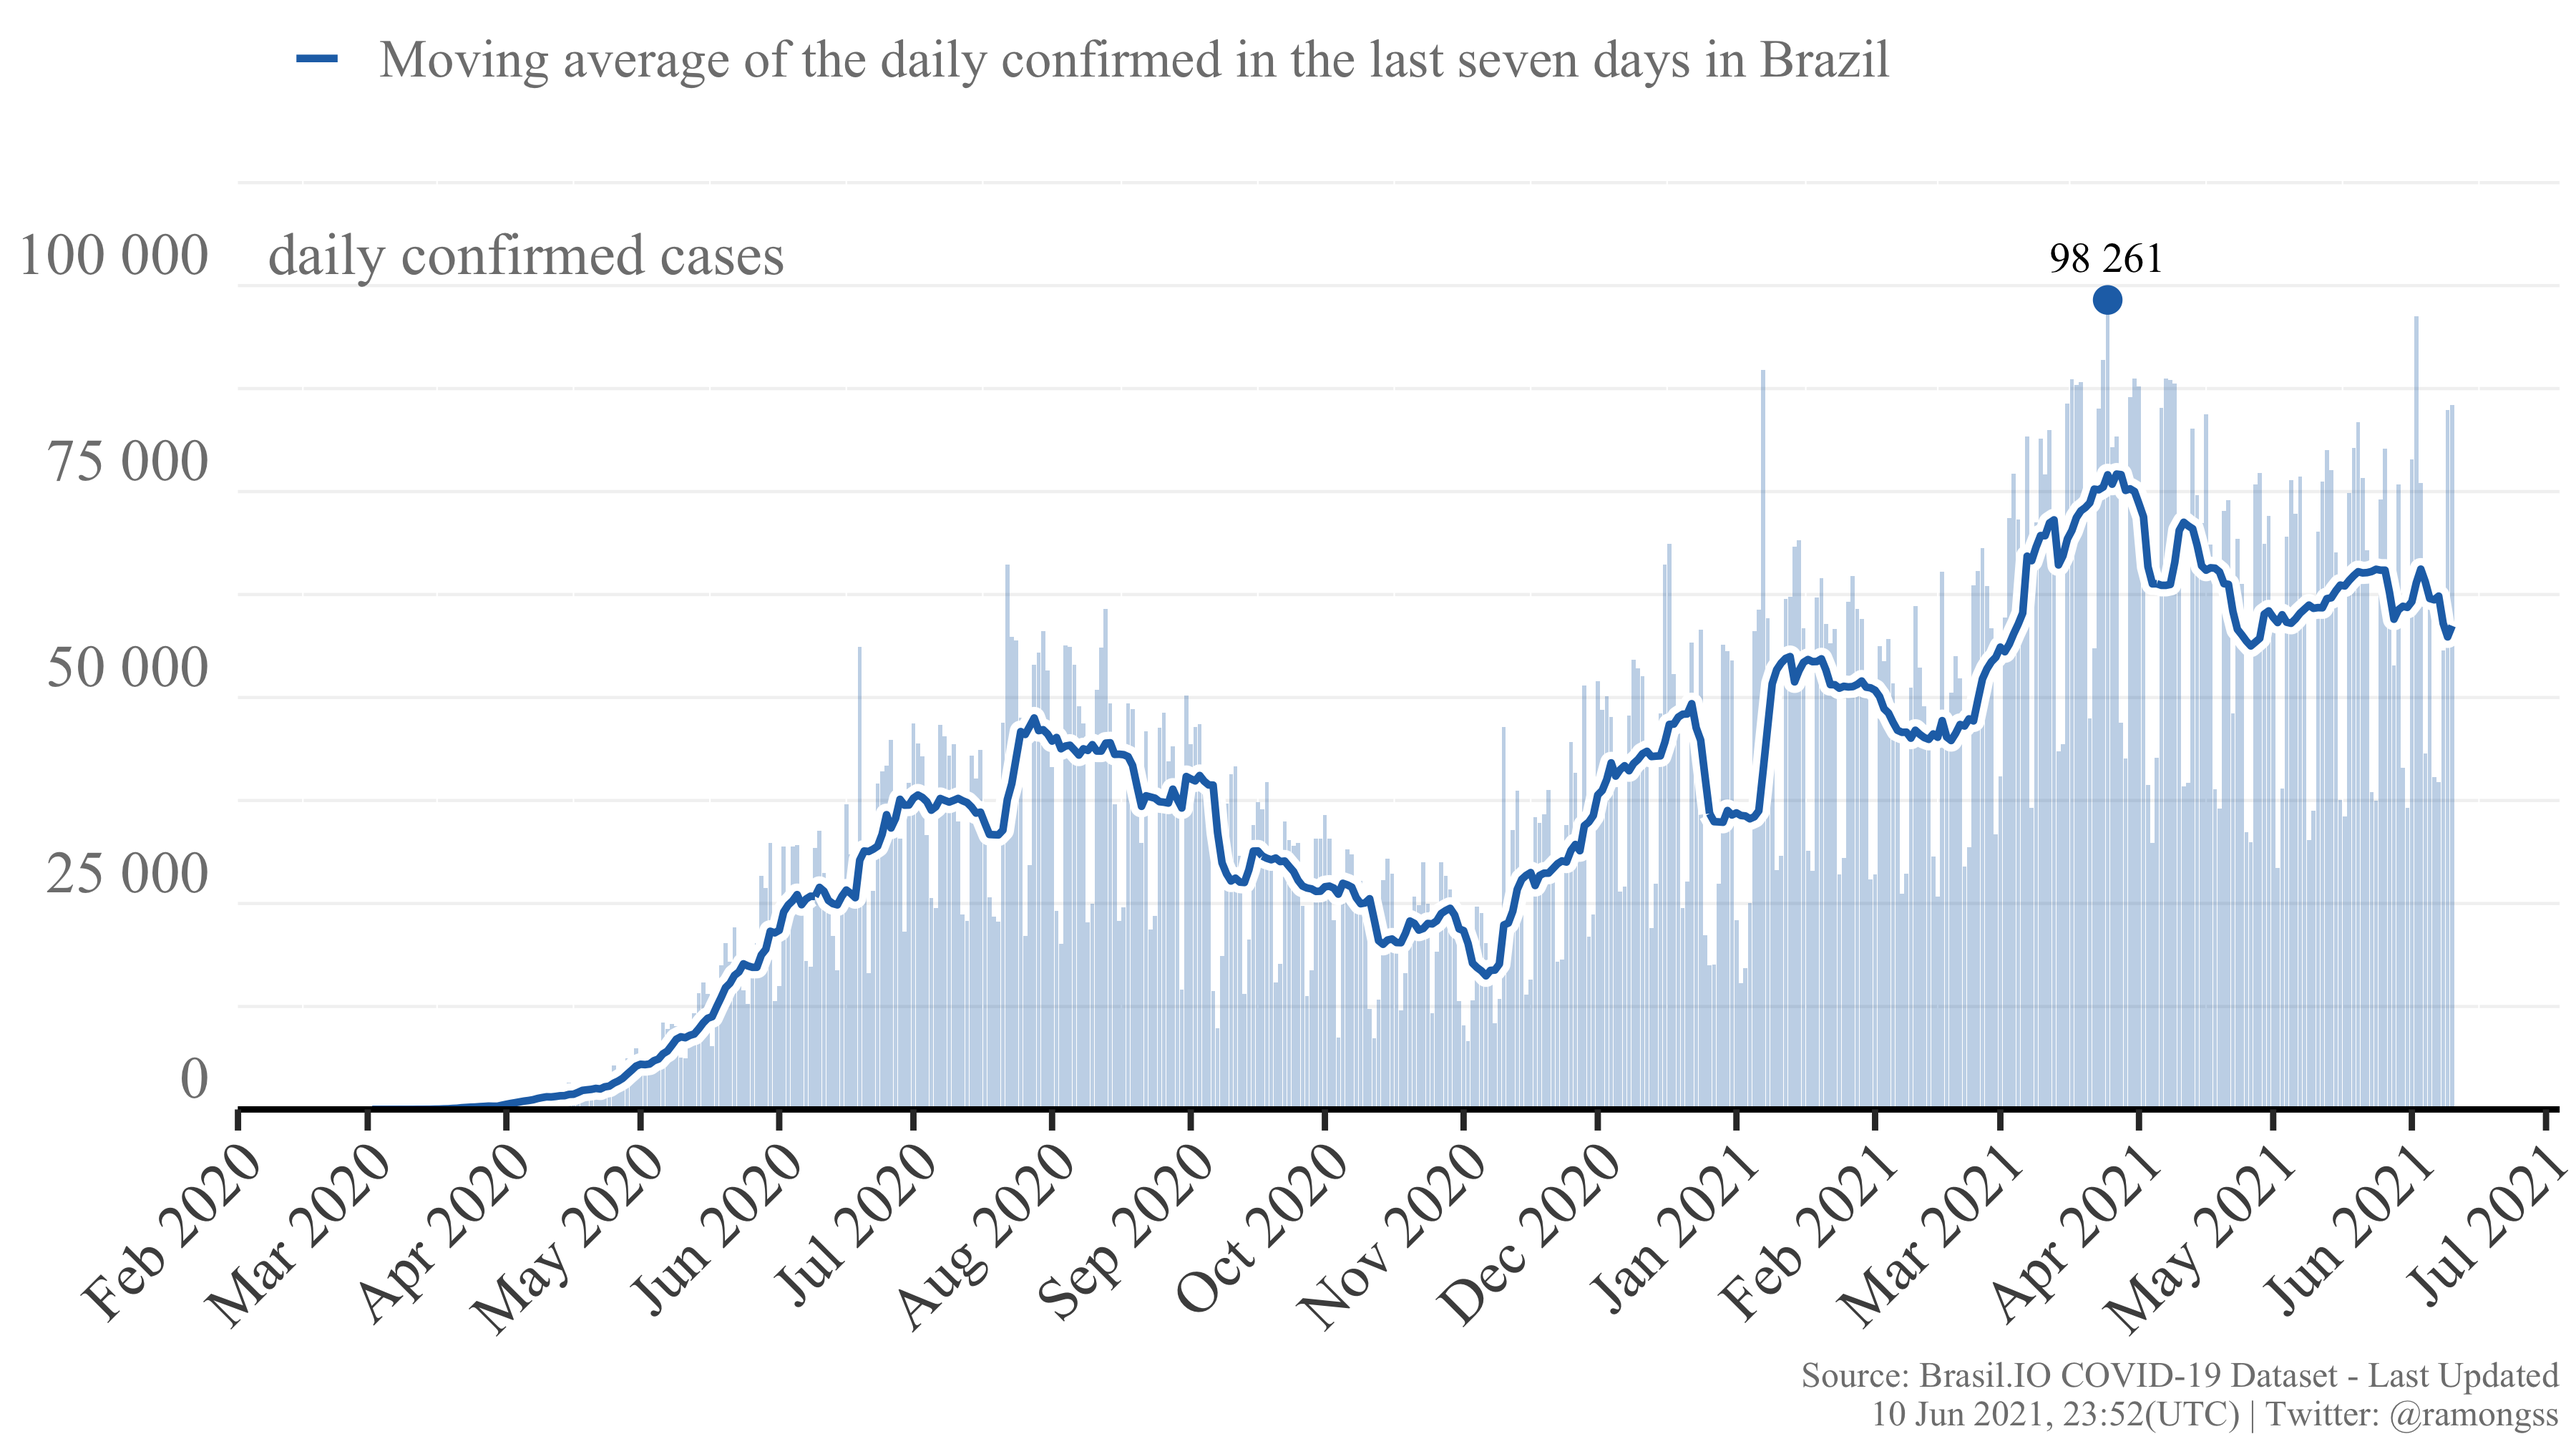
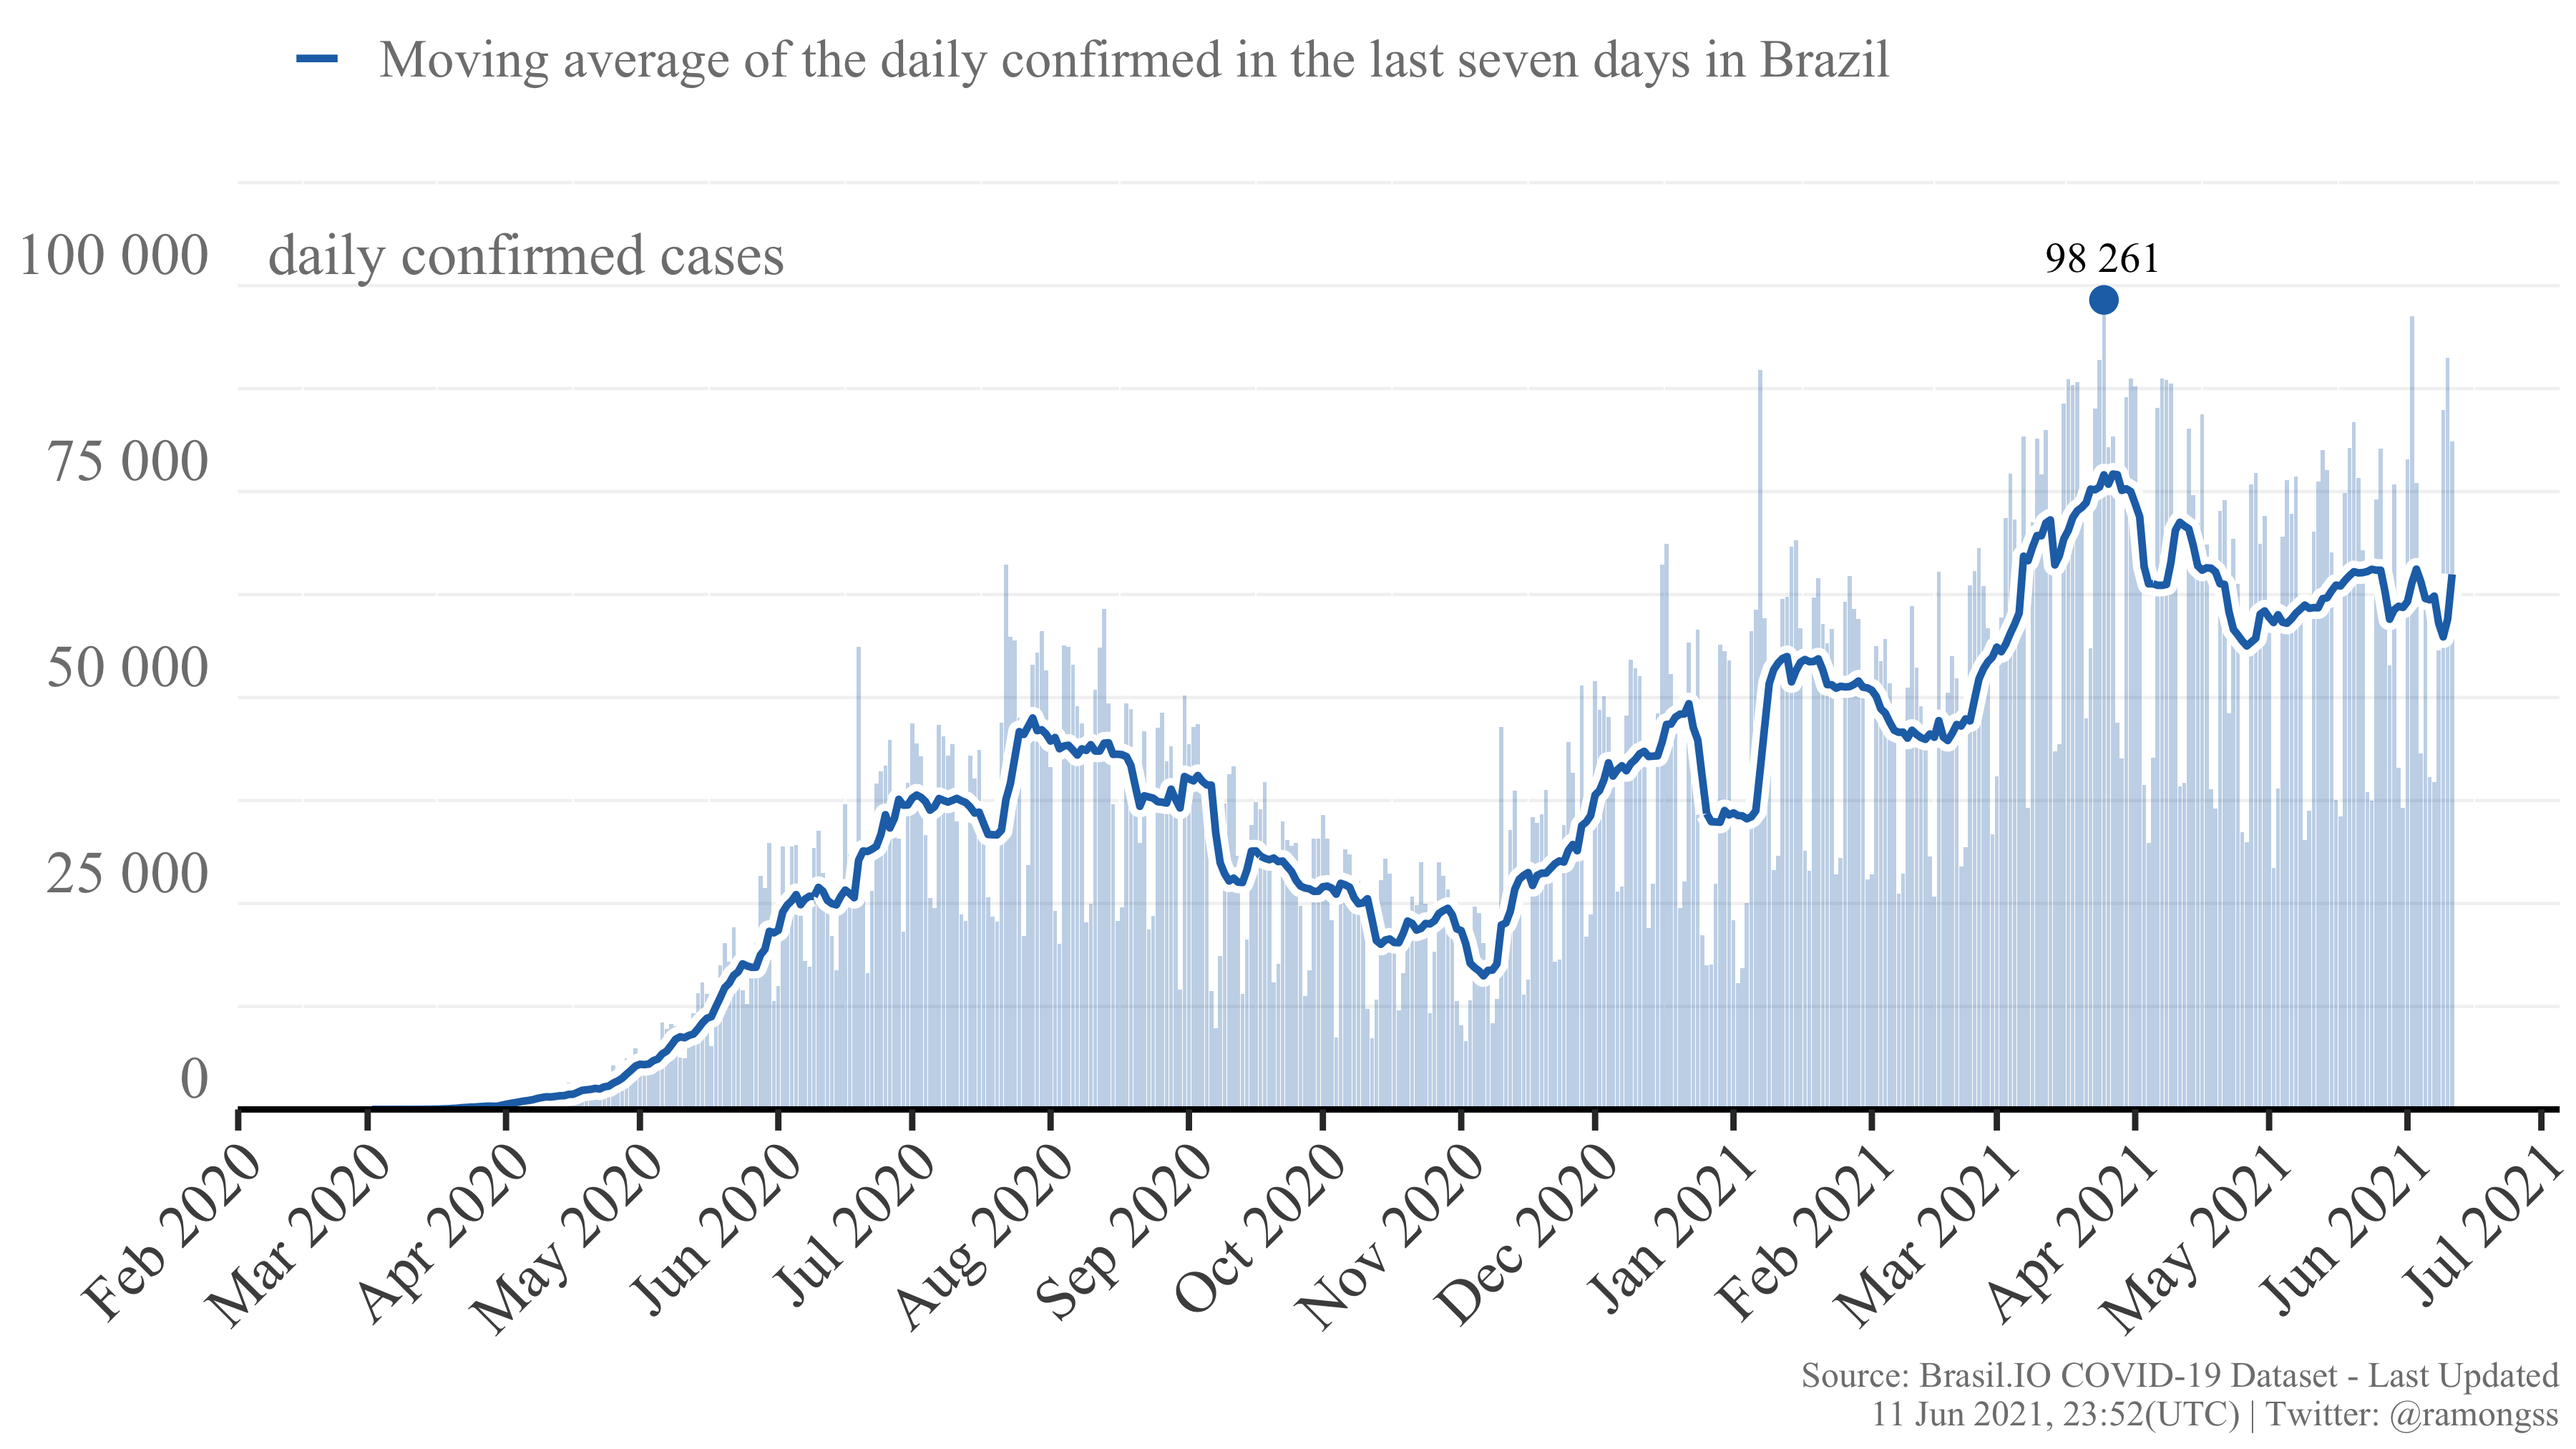
Re-build README.Rmd

diff --git a/README.md b/README.md
@@ -27,8 +27,8 @@ download_brasilio_table <- function(dataset = "covid19", table_name){
 
 ## COVID-19 Confirmed cases
 
-Currently, Brazil has a total of **17,220,092** confirmed cases at **10
-Jun, 2021**, with **85,469** new confirmed cases. The daily maximum
+Currently, Brazil has a total of **17,306,950** confirmed cases at **11
+Jun, 2021**, with **81,083** new confirmed cases. The daily maximum
 incidence was **98,261** confirmed cases at **25 Mar, 2021**. Here
 follows the Figure showing the confirmed case incidence as the bars, and
 the line as the moving average of the last 7 days.
@@ -37,8 +37,8 @@ the line as the moving average of the last 7 days.
 
 ## COVID-19 Deaths
 
-Currently, Brazil has a total of **482,356** deaths at **10 Jun, 2021**,
-with **2,426** new deaths. The daily maximum deaths incidence was
+Currently, Brazil has a total of **484,507** deaths at **11 Jun, 2021**,
+with **2,072** new deaths. The daily maximum deaths incidence was
 **4,148** deaths at **08 Apr, 2021**. Here follows the Figure showing
 the deaths incidence as the bars, and the line as the moving average of
 the last 7 days.
@@ -49,4 +49,4 @@ the last 7 days.
 
 This page is daily updated automatically using Github Actions.
 
-*Last update: 10 Jun 2021, 23:52 (UTC).*
+*Last update: 11 Jun 2021, 23:52 (UTC).*
